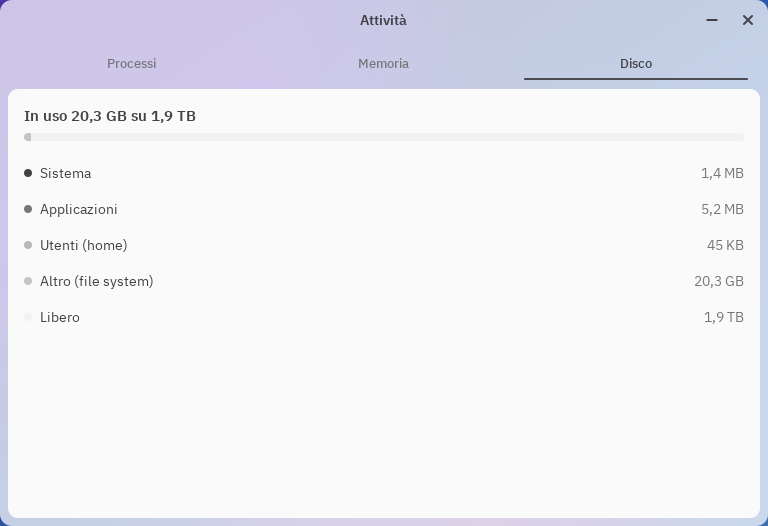
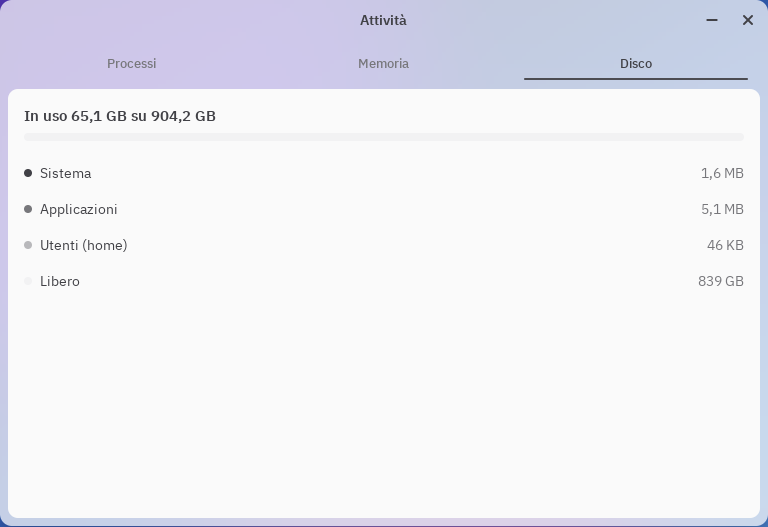
Disco di Attivita: tolto il pezzo grigio "Altro (file system)" dalla barra e dalla legenda; la barra e' la somma dei quattro pezzi

diff --git a/utente/applicazioni/Attivita/attivita.c b/utente/applicazioni/Attivita/attivita.c
@@ -244,13 +244,13 @@ static const int toni_memoria[PEZZI_MEMORIA] = { 0, 1, 2, 3, 0 };
 
 /* Il disco: system ("/", sola lettura) e data (/data) come una cosa sola. Totale e libero li
  * dice Linux (statvfs); sistema, applicazioni e utenti si contano camminando nelle cartelle;
- * "Altro" e' il resto di quello che e' in uso (le tabelle di ext4, i file che Attivita' non
- * puo' vedere). Non c'e' nel disegno: e' una domanda aperta (STATO.md, "Da confermare"). */
-enum { DISCO_SISTEMA, DISCO_APPLICAZIONI, DISCO_UTENTI, DISCO_ALTRO, DISCO_LIBERO, PEZZI_DISCO };
+ * lo spazio in uso che nessuna cartella spiega (le tabelle di ext4) non e' un pezzo a parte,
+ * come nel disegno: la barra intera e' la somma dei quattro pezzi, cosi' resta piena. */
+enum { DISCO_SISTEMA, DISCO_APPLICAZIONI, DISCO_UTENTI, DISCO_LIBERO, PEZZI_DISCO };
 static const char *const nomi_disco[PEZZI_DISCO] = {
-    "Sistema", "Applicazioni", "Utenti (home)", "Altro (file system)", "Libero"
+    "Sistema", "Applicazioni", "Utenti (home)", "Libero"
 };
-static const int toni_disco[PEZZI_DISCO] = { 0, 1, 2, 3, 0 };
+static const int toni_disco[PEZZI_DISCO] = { 0, 1, 2, 0 };
 static const char *const partizioni[] = { "/system", "/data" };
 
 /* Quanto pesano i file di una cartella, contando anche quelli delle cartelle dentro.
@@ -408,10 +408,8 @@ static void aggiorna_disco(struct finestra_tk *f, void *dati) {
     b[DISCO_APPLICAZIONI] = app_sistema + peso("/data/apps");
     b[DISCO_UTENTI] = peso("/data/users");
     unsigned long long in_uso = totale - libero;
-    unsigned long long contati = b[DISCO_SISTEMA] + b[DISCO_APPLICAZIONI] + b[DISCO_UTENTI];
-    b[DISCO_ALTRO] = in_uso > contati ? in_uso - contati : 0;
     b[DISCO_LIBERO] = libero;
-    disco.grafico.totale = totale;
+    disco.grafico.totale = 0;   /* la somma dei pezzi: la barra e' piena anche senza "Altro" */
     riepilogo(&disco, in_uso, totale);
     pagina_grafico_cambiata(&disco);
 }

diff --git a/strumenti/anteprima/scene/attivita.c b/strumenti/anteprima/scene/attivita.c
@@ -2,7 +2,7 @@
  * Attivita'" del Figma) al posto di quelli del kernel. La pagina si sceglie con la
  * variabile PAGINA=processi|memoria|disco (senza: processi, con la riga di "attivita"
  * scelta e quella di "compositore" sotto il puntatore). Il disco non c'e' (apri dice
- * "non trovato"): Sistema, Applicazioni e Utenti valgono 0 e tutto l'usato e' "Altro". */
+ * "non trovato"): Sistema, Applicazioni e Utenti valgono 0 e la barra e' tutta "Libero". */
 #include <stdlib.h>
 #include <string.h>
 
